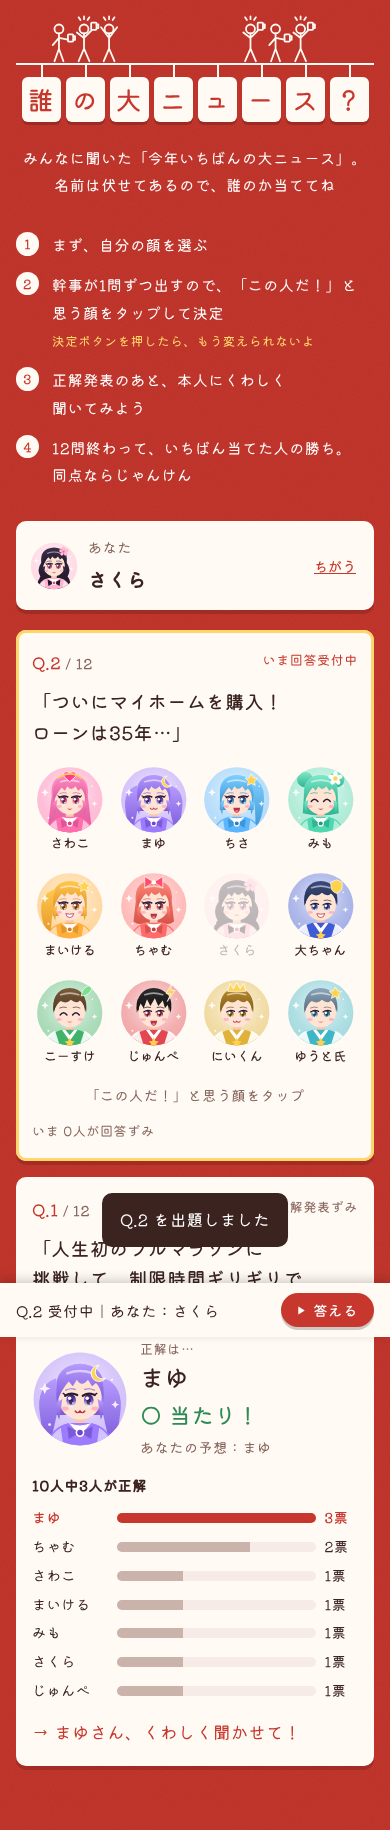
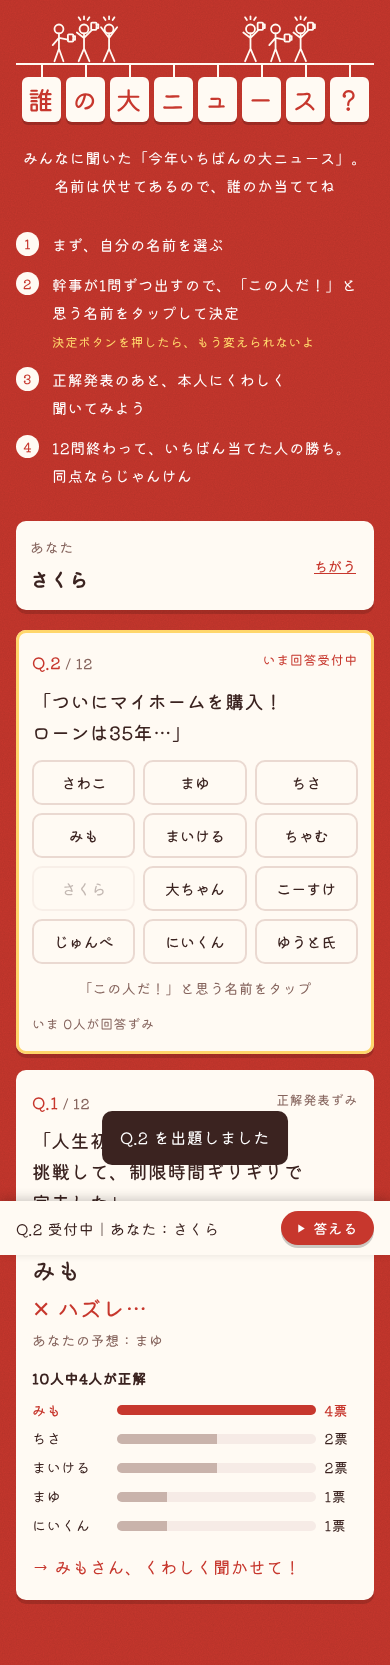
Remove illustrations; show names only
Claude-Session: https://claude.ai/code/session_018ZJwZKsz6jpVydR1pVijYJ

Changed region(s): [[0.0, 0.0, 1.0, 0.9682]]

diff --git a/bonenkai2026/index.html b/bonenkai2026/index.html
@@ -86,16 +86,15 @@ section{padding:8px 0 48px}
 /* ---- メンバー ---- */
 .grp{text-align:center;font-weight:500;margin:26px 0 12px;font-size:17px;letter-spacing:.2em}
 .grp:first-child{margin-top:0}
-.grid{display:grid;gap:16px 10px;grid-template-columns:repeat(3,1fr)}
+.grid{display:grid;gap:10px;grid-template-columns:repeat(3,1fr)}
 @media(min-width:620px){.grid{grid-template-columns:repeat(4,1fr)}}
 .pairs{display:grid;gap:14px}
 @media(min-width:620px){.pairs{grid-template-columns:repeat(2,1fr)}}
 .pair{display:grid;grid-template-columns:1fr auto 1fr;align-items:center;border:2px solid rgba(255,255,255,.6);border-radius:12px;padding:12px 8px}
 .pair .amp{font-size:20px;padding:0 2px}
-.mem{text-align:center}
-.mem svg{width:100%;max-width:110px;height:auto;display:block;margin:0 auto;border-radius:50%;background:var(--shiro);padding:4px;box-shadow:0 3px 0 rgba(0,0,0,.18)}
-.mem .nm{font-weight:500;font-size:16px;margin-top:6px}
-.mem .hito{font-size:13px;line-height:1.5;color:#fde3dc}
+.mem{text-align:center;background:var(--shiro);color:var(--aka);border-radius:8px;padding:12px 6px;box-shadow:0 3px 0 rgba(0,0,0,.18)}
+.mem .nm{font-weight:500;font-size:18px}
+.mem .hito{font-size:13px;line-height:1.5;color:var(--sub)}
 
 /* ---- クイズ ---- */
 .rules{margin:0 auto 26px;padding:0;list-style:none;counter-reset:r;max-width:520px}
@@ -104,11 +103,9 @@ section{padding:8px 0 48px}
 .rules small{color:var(--gold)}
 .who{padding:14px;margin-bottom:20px}
 .who .row{display:flex;align-items:center;gap:10px}
-.who .row svg{width:48px;height:48px}
-.faces{display:grid;grid-template-columns:repeat(4,1fr);gap:8px;margin-top:8px}
-.face{background:none;border:2px solid transparent;border-radius:12px;padding:4px 2px;cursor:pointer;font:500 13px var(--font);color:var(--ink)}
-.face svg{width:100%;height:auto;display:block}
-.face[aria-pressed=true]{border-color:var(--aka);background:var(--pale)}
+.faces{display:grid;grid-template-columns:repeat(3,1fr);gap:8px;margin-top:10px}
+.face{background:var(--shiro);border:2px solid var(--rule);border-radius:10px;padding:10px 4px;cursor:pointer;font:500 15px var(--font);color:var(--ink)}
+.face[aria-pressed=true]{border-color:var(--aka);background:var(--aka);color:#fff}
 .face:disabled{opacity:.3;cursor:not-allowed}
 .q{padding:18px 16px;margin-bottom:16px}
 .q.open{outline:3px solid var(--gold);outline-offset:-3px}
@@ -120,8 +117,7 @@ section{padding:8px 0 48px}
 .q .decide{margin-top:12px}
 .q .decide .warn{text-align:center;font-size:14px;color:var(--aka);margin-top:6px}
 .q .meta{font-size:13px;color:var(--sub);margin-top:10px}
-.ans{display:grid;grid-template-columns:96px 1fr;gap:12px;align-items:center;margin-top:12px}
-.ans svg{width:96px;height:96px}
+.ans{margin-top:12px}
 .ans .lbl{font-size:13px;color:var(--sub)}
 .ans .who2{font-size:24px;font-weight:500;line-height:1.3}
 .verdict{font-size:22px;font-weight:500;margin-top:2px}
@@ -147,7 +143,6 @@ details.past summary{cursor:pointer;padding:8px 0;text-align:center}
 .rank .pos{width:2.4em;font-weight:500;color:var(--sub)}
 .rank li.top .pos{color:var(--aka)}
 .rank li.me{background:#fff3c4;margin:0 -14px;padding:8px 14px}
-.rank svg{width:38px;height:38px;flex:none}
 .rank .sc{margin-left:auto;font-weight:500}
 .rank details summary{cursor:pointer;color:var(--sub);padding:8px 0}
 .prize{margin-top:24px;text-align:center;border:2px solid var(--shiro);border-radius:12px;padding:18px}
@@ -165,8 +160,7 @@ body.has-bar footer{padding-bottom:96px}
 .sheet-bg{position:fixed;inset:0;background:rgba(40,15,12,.5);z-index:40;display:none;align-items:flex-end;justify-content:center}
 .sheet-bg.show{display:flex}
 .sheet{background:var(--shiro);color:var(--ink);width:100%;max-width:520px;border-radius:16px 16px 0 0;padding:22px 18px calc(22px + env(safe-area-inset-bottom));text-align:center}
-.sheet svg{width:120px;height:120px}
-.sheet .nm{font-size:24px;font-weight:500}
+.sheet .nm{font-size:30px;font-weight:500;margin:6px 0}
 .sheet .warn{color:var(--aka);font-size:14px;margin:6px 0 14px}
 .sheet .btns{display:grid;grid-template-columns:1fr 2fr;gap:10px}
 
@@ -239,8 +233,8 @@ footer .ground{margin-bottom:18px}
   <h2 class="tiles" data-t="誰の大ニュース？"></h2>
   <p class="lead">みんなに聞いた「今年いちばんの大ニュース」。<br>名前は伏せてあるので、誰のか当ててね</p>
   <ol class="rules">
-    <li>まず、自分の顔を選ぶ</li>
-    <li>幹事が1問ずつ出すので、「この人だ！」と思う顔をタップして決定<br><small>決定ボタンを押したら、もう変えられないよ</small></li>
+    <li>まず、自分の名前を選ぶ</li>
+    <li>幹事が1問ずつ出すので、「この人だ！」と思う名前をタップして決定<br><small>決定ボタンを押したら、もう変えられないよ</small></li>
     <li>正解発表のあと、本人にくわしく聞いてみよう</li>
     <li>12問終わって、いちばん当てた人の勝ち。同点ならじゃんけん</li>
   </ol>
@@ -334,79 +328,26 @@ const PAIRS = [
 ];
 // メンバー。hito＝カードに出す「ひとこと」（空なら非表示）
 const MEMBERS = [
-  // ※さくら以外は特徴を聞くまでの仮の顔（一重・黒髪の控えめな似顔絵）
-  {name:'さわこ',   g:'f', hito:'', bg:'#ffd9e6', hair:'#3a2a22', style:'long',     eyes:'single'},
-  {name:'まゆ',     g:'f', hito:'', bg:'#e2dcff', hair:'#3a2a22', style:'bob',      eyes:'single'},
-  {name:'ちさ',     g:'f', hito:'', bg:'#d4eeff', hair:'#3a2a22', style:'pony',     eyes:'single'},
-  {name:'みも',     g:'f', hito:'', bg:'#d6f5e3', hair:'#3a2a22', style:'buns',     eyes:'single'},
-  {name:'まいける', g:'f', hito:'', bg:'#fff1bf', hair:'#3a2a22', style:'long',     eyes:'single'},
-  {name:'ちゃむ',   g:'f', hito:'', bg:'#ffe0d4', hair:'#3a2a22', style:'bob',      eyes:'single'},
-  {name:'さくら',   g:'f', hito:'', bg:'#f9c6f0', hair:'#d98a1c', style:'longwave', eyes:'double'},
-  {name:'大ちゃん', g:'m', hito:'', bg:'#d6e0ff', hair:'#2b2b2b', style:'short',    eyes:'single'},
-  {name:'こーすけ', g:'m', hito:'', bg:'#dcf3d2', hair:'#2b2b2b', style:'shortpart',eyes:'single'},
-  {name:'じゅんぺ', g:'m', hito:'', bg:'#ffd9d9', hair:'#2b2b2b', style:'spike',    eyes:'single'},
-  {name:'にいくん', g:'m', hito:'', bg:'#ffeccc', hair:'#2b2b2b', style:'short',    eyes:'single'},
-  {name:'ゆうと氏', g:'m', hito:'', bg:'#d3ecf1', hair:'#2b2b2b', style:'shortpart',eyes:'single'},
+  {name:'さわこ', g:'f', hito:''},
+  {name:'まゆ', g:'f', hito:''},
+  {name:'ちさ', g:'f', hito:''},
+  {name:'みも', g:'f', hito:''},
+  {name:'まいける', g:'f', hito:''},
+  {name:'ちゃむ', g:'f', hito:''},
+  {name:'さくら', g:'f', hito:''},
+  {name:'大ちゃん', g:'m', hito:''},
+  {name:'こーすけ', g:'m', hito:''},
+  {name:'じゅんぺ', g:'m', hito:''},
+  {name:'にいくん', g:'m', hito:''},
+  {name:'ゆうと氏', g:'m', hito:''},
 ];
 /* ================================================================ */
 MEMBERS.forEach(m=>{ m.key=m.name; });   // Code.gs の MEMBERS と同じ表記
 const byKey=Object.fromEntries(MEMBERS.map(m=>[m.key,m]));
 
 /* ===================== オリジナルのイラスト（SVG） ===================== */
-let uid=0;
-/* 似顔絵（青い線・平塗り）。特徴は MEMBERS の各項目で指定：
-   hair=髪色 / style=髪型(longwave,long,bob,short,shortpart,spike,pony,buns) / eyes=目(double=二重＋まつげ, single=一重, smile=笑い目)
-   glasses=めがね / beard=ひげ / bg=背景色 */
-function avatar(m){
-  const id='a'+(uid++), L='#2a56a8', SK='#fdeb9c', W=2.4, f=m.g==='f';
-  const st=`stroke="${L}" stroke-width="${W}" stroke-linejoin="round" stroke-linecap="round"`;
-  const H=m.hair||'#3a2a22';
-  // 後ろ髪
-  const BACK={
-    longwave:`<path d="M30,58 Q22,22 60,18 Q96,20 94,56 Q92,74 100,90 Q106,104 98,118 L22,118 Q14,104 22,92 Q30,78 30,58 Z" fill="${H}" ${st}/>
-      <path d="M90,70 Q96,88 92,104 M28,74 Q22,90 28,106 M96,60 Q102,76 100,86" fill="none" ${st} stroke-width="1.6"/>`,
-    long:`<path d="M30,58 Q24,20 60,18 Q96,20 90,58 L94,118 L26,118 Z" fill="${H}" ${st}/>`,
-    bob:`<path d="M28,60 Q24,20 60,18 Q96,20 92,60 L94,86 Q88,92 80,88 L40,88 Q32,92 26,86 Z" fill="${H}" ${st}/>`,
-    pony:`<path d="M84,34 Q108,40 104,72 Q102,90 94,100 Q96,76 88,56 Z" fill="${H}" ${st}/><path d="M32,58 Q28,22 60,20 Q92,22 88,58 Z" fill="${H}" ${st}/>`,
-    buns:`<circle cx="36" cy="24" r="11" fill="${H}" ${st}/><circle cx="84" cy="24" r="11" fill="${H}" ${st}/><path d="M32,58 Q28,22 60,20 Q92,22 88,58 Z" fill="${H}" ${st}/>`,
-    short:`<path d="M33,58 Q30,22 60,20 Q90,22 87,58 Z" fill="${H}" ${st}/>`,
-  };
-  const back=BACK[m.style]||BACK.short;
-  const body=`<path d="M24,124 Q24,92 60,90 Q96,92 96,124 Z" fill="${SK}" ${st}/>`;
-  const ears=`<path d="M35,58 Q27,56 28,66 Q29,74 36,72" fill="${SK}" ${st}/><path d="M85,58 Q93,56 92,66 Q91,74 84,72" fill="${SK}" ${st}/>`;
-  const face=`<ellipse cx="60" cy="60" rx="25" ry="29" fill="${SK}" ${st}/>`;
-  // 前髪
-  const BANG={
-    longwave:`<path d="M74,23 Q52,20 40,33 Q31,44 33,60 Q37,46 47,39 Q60,32 74,23 Z" fill="${H}" ${st}/>
-      <path d="M74,23 Q89,27 88,50 Q87,66 92,82 Q83,72 82,56 Q81,36 74,23 Z" fill="${H}" ${st}/>
-      <path d="M60,26 Q48,30 42,40" fill="none" ${st} stroke-width="1.4"/>`,
-    long:`<path d="M34,52 Q34,24 60,22 Q86,24 86,52 Q76,38 60,36 Q44,38 34,52 Z" fill="${H}" ${st}/>`,
-    bob:`<path d="M34,50 Q34,22 60,22 Q86,22 86,50 Q86,44 76,44 L44,44 Q34,44 34,50 Z" fill="${H}" ${st}/>`,
-    pony:`<path d="M35,50 Q36,24 60,23 Q84,24 85,50 Q74,36 60,36 Q46,36 35,50 Z" fill="${H}" ${st}/>`,
-    buns:`<path d="M35,50 Q36,24 60,23 Q84,24 85,50 Q74,36 60,36 Q46,36 35,50 Z" fill="${H}" ${st}/>`,
-    short:`<path d="M35,52 Q34,24 60,22 Q86,24 85,52 Q80,40 70,38 Q58,42 46,38 Q38,42 35,52 Z" fill="${H}" ${st}/>`,
-    shortpart:`<path d="M35,52 Q34,24 60,22 Q86,24 85,52 Q80,38 66,34 Q52,34 40,42 Q36,46 35,52 Z" fill="${H}" ${st}/>`,
-    spike:`<path d="M35,52 Q32,26 46,22 L48,14 L56,21 L62,12 L68,21 L76,15 L76,24 Q88,28 85,52 Q80,40 70,38 Q58,42 46,38 Q38,42 35,52 Z" fill="${H}" ${st}/>`,
-  };
-  const bang=BANG[m.style]||BANG.short;
-  // 目
-  const ey=62, EYE={
-    double:x=>`<circle cx="${x}" cy="${ey}" r="6" fill="#fff" ${st} stroke-width="2"/><circle cx="${x}" cy="${ey}" r="3.8" fill="#5b80d8"/><circle cx="${x}" cy="${ey}" r="2" fill="#1d2f6b"/>
-      <path d="M${x-7},${ey-5} Q${x},${ey-10} ${x+7},${ey-5}" fill="none" ${st} stroke-width="1.8"/>
-      <path d="M${x+(x<60?-5:5)},${ey-8} l${x<60?-2:2},-3 M${x+(x<60?-1:1)},${ey-9} l${x<60?-1:1},-3.5" fill="none" ${st} stroke-width="1.6"/>`,
-    single:x=>`<path d="M${x-5},${ey} Q${x},${ey-4} ${x+5},${ey}" fill="none" ${st} stroke-width="2"/><circle cx="${x}" cy="${ey+1}" r="2.2" fill="${L}"/>`,
-    smile:x=>`<path d="M${x-5},${ey+1} Q${x},${ey-5} ${x+5},${ey+1}" fill="none" ${st} stroke-width="2.2"/>`,
-  };
-  const eyeF=EYE[m.eyes]||EYE.single;
-  const brows=`<path d="M43,47 Q49,44 55,46" fill="none" ${st} stroke-width="1.8"/><path d="M65,46 Q71,44 77,47" fill="none" ${st} stroke-width="1.8"/>`;
-  const nose=`<path d="M61,64 L56,71 L61,72.5" fill="none" ${st} stroke-width="1.8"/>`;
-  const mouth=f?`<path d="M54,80 Q57,77.5 60,78.5 Q63,77.5 66,80 Q60,84 54,80 Z" fill="#f4a09c" stroke="#e48582" stroke-width="1"/>`
-               :`<path d="M54,79 Q60,83 66,79" fill="none" ${st} stroke-width="2"/>`;
-  const glasses=m.glasses?`<circle cx="49" cy="${ey}" r="8.5" fill="none" ${st} stroke-width="1.8"/><circle cx="71" cy="${ey}" r="8.5" fill="none" ${st} stroke-width="1.8"/><path d="M57.5,${ey} H62.5 M40.5,${ey-1} L36,${ey-3} M79.5,${ey-1} L84,${ey-3}" ${st} stroke-width="1.8"/>`:'';
-  const beard=m.beard?`<path d="M40,74 Q44,90 60,91 Q76,90 80,74 Q74,86 60,86 Q46,86 40,74 Z" fill="${H}" opacity=".85" ${st} stroke-width="1.6"/>`:'';
-  return `<svg viewBox="0 0 120 120" role="img" aria-label="${m.key}のイラスト"><defs><clipPath id="${id}c"><circle cx="60" cy="60" r="58"/></clipPath></defs>
-    <g clip-path="url(#${id}c)"><rect width="120" height="120" fill="${m.bg||'#f3e9d8'}"/>${back}${body}${ears}${face}${bang}${brows}${eyeF(49)}${eyeF(71)}${glasses}${nose}${beard}${mouth}</g></svg>`;
-}
+// イラストはなし（名前のみ表示）
+function avatar(){ return ''; }
 
 /* ===================== 共通 ===================== */
 const $=s=>document.querySelector(s);
@@ -500,7 +441,7 @@ function renderWho(){
   if(me && !pickingMe){
     w.innerHTML=`<div class="row">${avatar(byKey[me])}<div style="flex:1"><div class="note">あなた</div><div style="font-weight:900;font-size:19px">${esc(me)}</div></div><button class="linkbtn" id="changeMe">ちがう</button></div>`;
   }else{
-    w.innerHTML=`<div style="font-weight:900">あなたはだれ？ 自分の顔をタップ</div><div class="faces">${MEMBERS.map(m=>`<button class="face" data-me="${esc(m.key)}" aria-pressed="${m.key===me}">${avatar(m)}${esc(m.name)}</button>`).join('')}</div>`;
+    w.innerHTML=`<div style="font-weight:900">あなたはだれ？ 自分の名前をタップ</div><div class="faces">${MEMBERS.map(m=>`<button class="face" data-me="${esc(m.key)}" aria-pressed="${m.key===me}">${avatar(m)}${esc(m.name)}</button>`).join('')}</div>`;
   }
 }
 $('#who').addEventListener('click',e=>{
@@ -523,11 +464,11 @@ function qCard(q,total,anim){
   if(q.status==='open'){
     if(q.isMine) body=`<div class="msg">これ、あなたのニュース。顔に出さないように…</div>`;
     else if(q.myGuess) body=`<div class="msg">あなたの予想：${esc(q.myGuess)}｜正解発表を待ってね</div>`;
-    else if(!me) body=`<div class="msg">上で自分の顔を選ぶと答えられます</div>`;
+    else if(!me) body=`<div class="msg">上で自分の名前を選ぶと答えられます</div>`;
     else{
       const p=pick[q.no];
       body=`<div class="faces">${MEMBERS.map(m=>`<button class="face" data-q="${q.no}" data-g="${esc(m.key)}" aria-pressed="${p===m.key}" ${m.key===me?'disabled':''}>${avatar(m)}${esc(m.name)}</button>`).join('')}</div>
-        <div class="decide">${p?`<button class="btn wide" data-decide="${q.no}">${esc(p)}で決定する</button><div class="warn">決定したら、あとから変えられません</div>`:`<div class="note" style="text-align:center">「この人だ！」と思う顔をタップ</div>`}</div>`;
+        <div class="decide">${p?`<button class="btn wide" data-decide="${q.no}">${esc(p)}で決定する</button><div class="warn">決定したら、あとから変えられません</div>`:`<div class="note" style="text-align:center">「この人だ！」と思う名前をタップ</div>`}</div>`;
     }
     body+=`<div class="meta">いま ${q.answered}人が回答ずみ</div>`;
   }else{
@@ -576,7 +517,7 @@ function renderBar(open){
   const q=open[0], bar=$('#bar');
   if(!q){bar.classList.remove('show');document.body.classList.remove('has-bar');return}
   let t,btn='答える';
-  if(!me){t=`Q.${q.no} 受付中｜まず自分の顔を選んでね`;btn='選ぶ'}
+  if(!me){t=`Q.${q.no} 受付中｜まず自分の名前を選んでね`;btn='選ぶ'}
   else if(q.isMine){t=`Q.${q.no} はあなたのニュース。見守ってね`;btn='見る'}
   else if(q.myGuess){t=`Q.${q.no} 回答ずみ（${q.myGuess}）｜発表待ち`;btn='見る'}
   else t=`Q.${q.no} 受付中｜あなた：${me}`;
